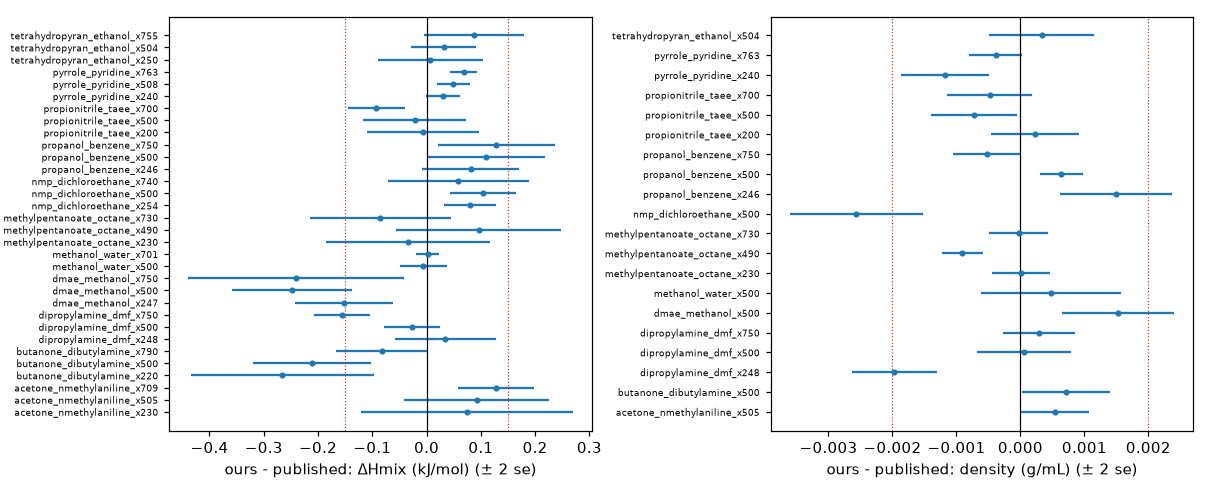
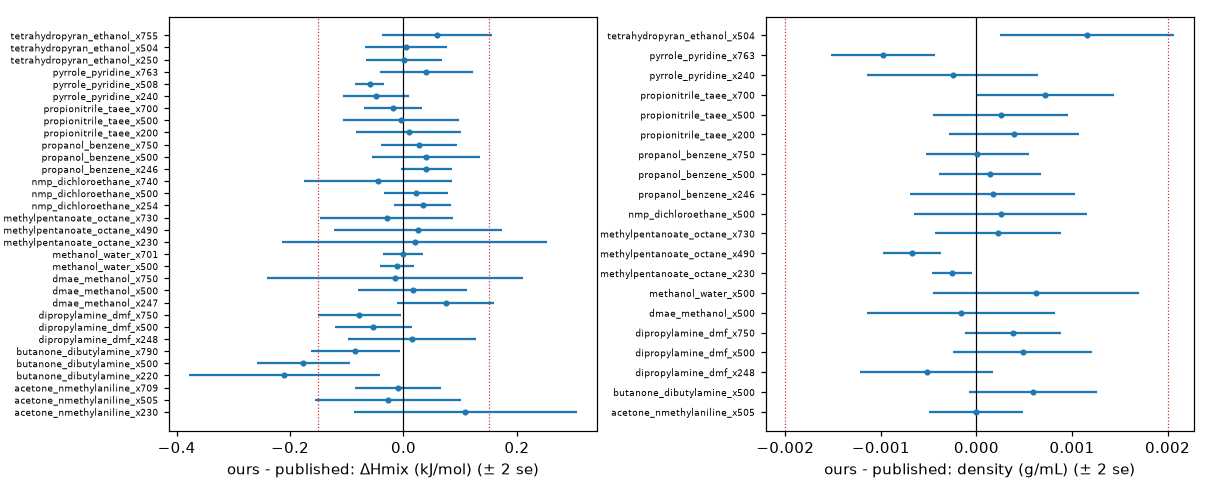
Make sure to compare to equivalent Sage ff

diff --git a/src/liquid_mixtures_inputs/summarise_sage.py b/src/liquid_mixtures_inputs/summarise_sage.py
@@ -9,7 +9,7 @@ Run in the ``analysis`` pixi environment after ``run_sage_benchmark.py``::
 It computes ΔHmix, mixture density and V^E for every replicate, the replicate
 spread used as the MAZE denominator (σ_Sage, pooled per system), convergence
 diagnostics, a comparison of within-run and between-run uncertainties, and a
-finite-size check against the published 1000-molecule openff-2.2.1 results.
+finite-size check against the published 1000-molecule openff-2.2.1-ashgc results.
 Per-run statistics use the same estimators as the benchmark analysis
 (``ml_peg/analysis/molecular_dynamics/binary_mixtures/mixing.py``).
 ``systems.csv`` and ``boxes.csv`` in ``--data-dir`` are updated in place with
@@ -46,7 +46,10 @@ EQUILIBRATION_PS = 200.0
 PRODUCTION_PS = 2000.0
 FLAG_P = 0.05
 START_T = 4.0  # |t| above which replicate 0 is reported as start-dependent
-SAGE_FF = "openff-2.2.1"
+# openff-2.2.1 parameters with NAGL (AshGC) charges, like our runs; the published
+# "openff-2.2.1" rows use AM1-BCC. 04_benchmark/forcefields/openff-2.2.1-ashgc.offxml
+# uses openff-gnn-am1bcc-0.1.0-rc.3 where we use 1.0.0.
+PUBLISHED_FF = "openff-2.2.1-ashgc"
 PUBLISHED_X_TOLERANCE = 0.02
 # Thresholds for the "systems to inspect" summary
 SIZE_GAP = {"hmix": 0.15, "density": 0.002}  # kJ/mol, g/mL
@@ -254,7 +257,7 @@ def pooled_sigma(points: pd.DataFrame, n_replicates: int) -> pd.DataFrame:
 
 def published_sage(cache_dir: Path) -> pd.DataFrame:
     """
-    Load the published openff-2.2.1 results (3 replicates, 1000 molecules).
+    Load the published openff-2.2.1-ashgc results (3 replicates, 1000 molecules).
 
     Parameters
     ----------
@@ -277,7 +280,7 @@ def published_sage(cache_dir: Path) -> pd.DataFrame:
         if path.exists():
             frames.append(pd.read_csv(path))
     data = pd.concat(frames)
-    data = data[data.forcefield == SAGE_FF].copy()
+    data = data[data.forcefield == PUBLISHED_FF].copy()
 
     def x_first(row) -> float:
         """
@@ -807,6 +810,7 @@ def plot_finite_size(finite: pd.DataFrame, path: Path) -> None:
         for sign in (-1, 1):
             ax.axvline(sign * SIZE_GAP[prop], color="tab:red", ls=":", lw=0.8)
         ax.set_yticks(np.arange(len(data)), data.box_id, fontsize=6)
+        ax.xaxis.set_major_locator(mpl.ticker.MaxNLocator(5))
         ax.set_xlabel(f"ours - published: {unit} (± 2 se)")
     fig.tight_layout()
     fig.savefig(path, dpi=110)
@@ -1018,8 +1022,16 @@ CATEGORY_NOTES = {
         "demixing flags for this box compare against this Sage value."
     ),
     "box-size gap": (
-        "Differs from the published 1000-molecule runs beyond the threshold. "
-        "Could be box size or NAGL vs AM1-BCC charges."
+        f"Our replicate mean minus the published {PUBLISHED_FF} mean (3 "
+        "replicates, 1000 molecules) at our composition, beyond "
+        f"{SIZE_GAP['hmix']} kJ/mol or {SIZE_GAP['density']} g/mL. Both use "
+        "openff-2.2.1 parameters with NAGL charges (published: model 0.1.0-rc.3, "
+        "ours: 1.0.0), so the gap comes from box size, protocol (run length, "
+        "equilibration, starting conformers) or the NAGL model version. z is "
+        "the gap over the combined "
+        "standard error of the two means: it tests whether the gap exceeds "
+        "replicate noise, not what causes it. The plot shows every matched point "
+        "(± 2 se), with the thresholds dotted."
     ),
     "force-field miss (not a run problem)": (
         "Sage is far from experiment; expected for some systems and useful "

diff --git a/data/sage_summary/sage_report.md b/data/sage_summary/sage_report.md
@@ -17,7 +17,7 @@
 
 **Multiple testing.** The pooled ratios are one test per row of the table (4 tests, uncorrected). With a Bonferroni correction over the 4, box h, box density, point hmix stay significant at p < 0.05. The per-box and per-point tests are two-sided and Holm-corrected together (206 tests, flagged at adjusted p < 0.05). The p_high < 0.05 counts above are unadjusted and should be read against the number expected by chance. Boxes listed under "within/between mismatch" below as "p < 0.05 unadjusted only" are places to look, not individually significant results; the evidence that within-run sems are too small comes from the pooled test.
 
-**43 boxes or systems to inspect** (66 items). Categories are in rough order of concern for the benchmark.
+**41 boxes or systems to inspect** (61 items). Categories are in rough order of concern for the benchmark.
 
 ### within/between mismatch (30)
 
@@ -116,19 +116,14 @@ Sage itself shows like-like clustering beyond random mixing; MLIP demixing flags
 | water_pyridine_x495 | like-neighbour fraction 0.604 vs 0.497 for random mixing | [replicates](figures/replicates/water_pyridine_x495.png), [convergence](figures/convergence/water_pyridine_x495.png) |
 | water_pyridine_x700 | like-neighbour fraction 0.682 vs 0.579 for random mixing | [replicates](figures/replicates/water_pyridine_x700.png), [convergence](figures/convergence/water_pyridine_x700.png) |
 
-### box-size gap (7)
+### box-size gap (2)
 
-Differs from the published 1000-molecule runs beyond the threshold. Could be box size or NAGL vs AM1-BCC charges.
+Our replicate mean minus the published openff-2.2.1-ashgc mean (3 replicates, 1000 molecules) at our composition, beyond 0.15 kJ/mol or 0.002 g/mL. Both use openff-2.2.1 parameters with NAGL charges (published: model 0.1.0-rc.3, ours: 1.0.0), so the gap comes from box size, protocol (run length, equilibration, starting conformers) or the NAGL model version. z is the gap over the combined standard error of the two means: it tests whether the gap exceeds replicate noise, not what causes it. The plot shows every matched point (± 2 se), with the thresholds dotted.
 
 | Box / system | Evidence | Plots |
 |---|---|---|
-| butanone_dibutylamine_x220 | hmix: ours − published -0.2656 (z = -3.2) | [system](figures/systems/butanone_dibutylamine.png) |
-| butanone_dibutylamine_x500 | hmix: ours − published -0.2106 (z = -3.9) | [system](figures/systems/butanone_dibutylamine.png) |
-| dipropylamine_dmf_x750 | hmix: ours − published -0.1559 (z = -6.0) | [system](figures/systems/dipropylamine_dmf.png) |
-| dmae_methanol_x247 | hmix: ours − published -0.1521 (z = -3.4) | [system](figures/systems/dmae_methanol.png) |
-| dmae_methanol_x500 | hmix: ours − published -0.2483 (z = -4.5) | [system](figures/systems/dmae_methanol.png) |
-| dmae_methanol_x750 | hmix: ours − published -0.2405 (z = -2.4) | [system](figures/systems/dmae_methanol.png) |
-| nmp_dichloroethane_x500 | density: ours − published -0.0026 (z = -4.9) | [system](figures/systems/nmp_dichloroethane.png) |
+| butanone_dibutylamine_x220 | hmix: ours − published -0.2103 (z = -2.5) | [system](figures/systems/butanone_dibutylamine.png) |
+| butanone_dibutylamine_x500 | hmix: ours − published -0.1767 (z = -4.3) | [system](figures/systems/butanone_dibutylamine.png) |
 
 ![finite size](figures/finite_size.png)
 
@@ -208,62 +203,62 @@ Largest within/between mismatches:
 
 ## Finite-size check (our boxes vs published 1000-molecule runs)
 
-Matched points within |Δx| ≤ 0.02: 52. The nearest published value is shifted to our composition along a curve fitted to the published points (two-term Redlich-Kister for ΔHmix, quadratic for density), as a composition offset alone can shift a density by more than the gaps tested. |z| > 3: 18. z uses the standard errors of the two replicate means, which are small, so small systematic offsets reach |z| > 3.
+Matched points within |Δx| ≤ 0.02: 52. The nearest published value is shifted to our composition along a curve fitted to the published points (two-term Redlich-Kister for ΔHmix, quadratic for density), as a composition offset alone can shift a density by more than the gaps tested. |z| > 3: 4. z uses the standard errors of the two replicate means, which are small, so small systematic offsets reach |z| > 3.
 
 | Box | Property | x ours | x published (nearest) | Ours | Published (nearest) | Published (at our x) | Diff | z |
 |---|---|---|---|---|---|---|---|---|
-| acetone_nmethylaniline_x230 | hmix | 0.2300 | 0.2316 | -0.5381 | -0.6150 | -0.6120 | +0.0739 | +0.8 |
-| acetone_nmethylaniline_x505 | hmix | 0.5050 | 0.5086 | -0.7842 | -0.8762 | -0.8763 | +0.0921 | +1.4 |
-| acetone_nmethylaniline_x505 | density | 0.5050 | 0.4948 | 0.9045 | 0.9061 | 0.9040 | +0.0005 | +2.0 |
-| acetone_nmethylaniline_x709 | hmix | 0.7091 | 0.7097 | -0.5955 | -0.7228 | -0.7237 | +0.1282 | +3.7 |
-| butanone_dibutylamine_x220 | hmix | 0.2200 | 0.2154 | -0.1008 | 0.1621 | 0.1648 | -0.2656 | -3.2 |
-| butanone_dibutylamine_x500 | hmix | 0.5000 | 0.5044 | 0.0547 | 0.2655 | 0.2654 | -0.2106 | -3.9 |
-| butanone_dibutylamine_x500 | density | 0.5000 | 0.5018 | 0.7612 | 0.7606 | 0.7605 | +0.0007 | +2.1 |
-| butanone_dibutylamine_x790 | hmix | 0.7900 | 0.7922 | 0.0943 | 0.1749 | 0.1762 | -0.0819 | -1.9 |
-| dipropylamine_dmf_x248 | hmix | 0.2476 | 0.2482 | 0.1854 | 0.1509 | 0.1506 | +0.0347 | +0.8 |
-| dipropylamine_dmf_x248 | density | 0.2476 | 0.2523 | 0.8528 | 0.8537 | 0.8548 | -0.0020 | -6.0 |
-| dipropylamine_dmf_x500 | hmix | 0.5000 | 0.4995 | 0.1227 | 0.1503 | 0.1503 | -0.0275 | -1.1 |
-| dipropylamine_dmf_x500 | density | 0.5000 | 0.5034 | 0.8037 | 0.8030 | 0.8037 | +0.0001 | +0.1 |
-| dipropylamine_dmf_x750 | hmix | 0.7500 | 0.7496 | 0.0143 | 0.1703 | 0.1702 | -0.1559 | -6.0 |
-| dipropylamine_dmf_x750 | density | 0.7500 | 0.7459 | 0.7639 | 0.7642 | 0.7636 | +0.0003 | +1.0 |
-| dmae_methanol_x247 | hmix | 0.2470 | 0.2479 | -1.3032 | -1.1534 | -1.1511 | -0.1521 | -3.4 |
-| dmae_methanol_x500 | hmix | 0.5000 | 0.4972 | -1.6240 | -1.3779 | -1.3757 | -0.2483 | -4.5 |
-| dmae_methanol_x500 | density | 0.5000 | 0.5020 | 0.8610 | 0.8596 | 0.8594 | +0.0015 | +3.5 |
-| dmae_methanol_x750 | hmix | 0.7500 | 0.7506 | -1.0942 | -0.8519 | -0.8537 | -0.2405 | -2.4 |
-| methanol_water_x500 | hmix | 0.5000 | 0.5000 | 0.1183 | 0.1242 | 0.1242 | -0.0059 | -0.3 |
-| methanol_water_x500 | density | 0.5000 | 0.4997 | 0.8388 | 0.8384 | 0.8383 | +0.0005 | +0.9 |
-| methanol_water_x701 | hmix | 0.7014 | 0.7000 | 0.0509 | 0.0492 | 0.0489 | +0.0020 | +0.2 |
-| methylpentanoate_octane_x230 | hmix | 0.2300 | 0.2255 | 1.0662 | 1.0873 | 1.1005 | -0.0343 | -0.5 |
-| methylpentanoate_octane_x230 | density | 0.2300 | 0.2465 | 0.7228 | 0.7256 | 0.7228 | +0.0000 | +0.0 |
-| methylpentanoate_octane_x490 | hmix | 0.4900 | 0.4887 | 1.4176 | 1.3225 | 1.3220 | +0.0957 | +1.3 |
-| methylpentanoate_octane_x490 | density | 0.4900 | 0.4896 | 0.7685 | 0.7693 | 0.7694 | -0.0009 | -5.7 |
-| methylpentanoate_octane_x730 | hmix | 0.7300 | 0.7323 | 0.9363 | 1.0154 | 1.0216 | -0.0853 | -1.3 |
-| methylpentanoate_octane_x730 | density | 0.7300 | 0.7399 | 0.8179 | 0.8200 | 0.8179 | -0.0000 | -0.1 |
-| nmp_dichloroethane_x254 | hmix | 0.2544 | 0.2531 | -0.4317 | -0.5099 | -0.5114 | +0.0796 | +3.3 |
-| nmp_dichloroethane_x500 | hmix | 0.5000 | 0.5000 | -0.5040 | -0.6079 | -0.6079 | +0.1039 | +3.4 |
-| nmp_dichloroethane_x500 | density | 0.5000 | 0.4975 | 1.1057 | 1.1088 | 1.1082 | -0.0026 | -4.9 |
-| nmp_dichloroethane_x740 | hmix | 0.7404 | 0.7367 | -0.3904 | -0.4535 | -0.4489 | +0.0585 | +0.9 |
-| propanol_benzene_x246 | hmix | 0.2455 | 0.2493 | 1.2830 | 1.2108 | 1.2019 | +0.0811 | +1.8 |
-| propanol_benzene_x246 | density | 0.2455 | 0.2385 | 0.8422 | 0.8411 | 0.8407 | +0.0015 | +3.4 |
-| propanol_benzene_x500 | hmix | 0.5000 | 0.4996 | 1.3732 | 1.2648 | 1.2643 | +0.1088 | +2.0 |
-| propanol_benzene_x500 | density | 0.5000 | 0.5023 | 0.8263 | 0.8255 | 0.8257 | +0.0006 | +3.8 |
-| propanol_benzene_x750 | hmix | 0.7500 | 0.7501 | 0.8935 | 0.7647 | 0.7650 | +0.1285 | +2.4 |
-| propanol_benzene_x750 | density | 0.7500 | 0.7453 | 0.8098 | 0.8106 | 0.8103 | -0.0005 | -2.0 |
-| propionitrile_taee_x200 | hmix | 0.2000 | 0.2009 | 0.1771 | 0.1845 | 0.1838 | -0.0067 | -0.1 |
-| propionitrile_taee_x200 | density | 0.2000 | 0.2009 | 0.7634 | 0.7632 | 0.7632 | +0.0002 | +0.7 |
-| propionitrile_taee_x500 | hmix | 0.5000 | 0.5025 | 0.2602 | 0.2827 | 0.2824 | -0.0222 | -0.5 |
-| propionitrile_taee_x500 | density | 0.5000 | 0.5025 | 0.7676 | 0.7684 | 0.7684 | -0.0007 | -2.2 |
-| propionitrile_taee_x700 | hmix | 0.7000 | 0.7012 | 0.1888 | 0.2811 | 0.2816 | -0.0929 | -3.6 |
-| propionitrile_taee_x700 | density | 0.7000 | 0.7012 | 0.7712 | 0.7717 | 0.7717 | -0.0005 | -1.4 |
-| pyrrole_pyridine_x240 | hmix | 0.2397 | 0.2395 | -0.1136 | -0.1439 | -0.1440 | +0.0303 | +2.0 |
-| pyrrole_pyridine_x240 | density | 0.2397 | 0.2273 | 0.9748 | 0.9760 | 0.9760 | -0.0012 | -3.5 |
-| pyrrole_pyridine_x508 | hmix | 0.5079 | 0.5095 | -0.0710 | -0.1193 | -0.1199 | +0.0489 | +3.2 |
-| pyrrole_pyridine_x763 | hmix | 0.7634 | 0.7602 | 0.0612 | -0.0080 | -0.0070 | +0.0682 | +5.6 |
-| pyrrole_pyridine_x763 | density | 0.7634 | 0.7554 | 0.9769 | 0.9772 | 0.9773 | -0.0004 | -1.9 |
-| tetrahydropyran_ethanol_x250 | hmix | 0.2500 | 0.2500 | 0.6502 | 0.6431 | 0.6431 | +0.0071 | +0.1 |
-| tetrahydropyran_ethanol_x504 | hmix | 0.5042 | 0.5000 | 0.9679 | 0.9341 | 0.9363 | +0.0316 | +1.0 |
-| tetrahydropyran_ethanol_x504 | density | 0.5042 | 0.5040 | 0.8351 | 0.8348 | 0.8348 | +0.0003 | +0.8 |
-| tetrahydropyran_ethanol_x755 | hmix | 0.7547 | 0.7500 | 0.9273 | 0.8482 | 0.8396 | +0.0877 | +1.9 |
+| acetone_nmethylaniline_x230 | hmix | 0.2300 | 0.2316 | -0.5381 | -0.6499 | -0.6473 | +0.1092 | +1.1 |
+| acetone_nmethylaniline_x505 | hmix | 0.5050 | 0.5086 | -0.7842 | -0.7554 | -0.7571 | -0.0271 | -0.4 |
+| acetone_nmethylaniline_x505 | density | 0.5050 | 0.4948 | 0.9045 | 0.9067 | 0.9045 | -0.0000 | -0.0 |
+| acetone_nmethylaniline_x709 | hmix | 0.7091 | 0.7097 | -0.5955 | -0.5850 | -0.5859 | -0.0096 | -0.3 |
+| butanone_dibutylamine_x220 | hmix | 0.2200 | 0.2154 | -0.1008 | 0.1071 | 0.1095 | -0.2103 | -2.5 |
+| butanone_dibutylamine_x500 | hmix | 0.5000 | 0.5044 | 0.0547 | 0.2323 | 0.2314 | -0.1767 | -4.3 |
+| butanone_dibutylamine_x500 | density | 0.5000 | 0.5018 | 0.7612 | 0.7607 | 0.7607 | +0.0006 | +1.8 |
+| butanone_dibutylamine_x790 | hmix | 0.7900 | 0.7922 | 0.0943 | 0.1779 | 0.1791 | -0.0847 | -2.2 |
+| dipropylamine_dmf_x248 | hmix | 0.2476 | 0.2482 | 0.1854 | 0.1702 | 0.1701 | +0.0153 | +0.3 |
+| dipropylamine_dmf_x248 | density | 0.2476 | 0.2523 | 0.8528 | 0.8523 | 0.8533 | -0.0005 | -1.5 |
+| dipropylamine_dmf_x500 | hmix | 0.5000 | 0.4995 | 0.1227 | 0.1762 | 0.1761 | -0.0534 | -1.6 |
+| dipropylamine_dmf_x500 | density | 0.5000 | 0.5034 | 0.8037 | 0.8026 | 0.8032 | +0.0005 | +1.3 |
+| dipropylamine_dmf_x750 | hmix | 0.7500 | 0.7496 | 0.0143 | 0.0921 | 0.0920 | -0.0777 | -2.1 |
+| dipropylamine_dmf_x750 | density | 0.7500 | 0.7459 | 0.7639 | 0.7641 | 0.7635 | +0.0004 | +1.5 |
+| dmae_methanol_x247 | hmix | 0.2470 | 0.2479 | -1.3032 | -1.3806 | -1.3778 | +0.0746 | +1.7 |
+| dmae_methanol_x500 | hmix | 0.5000 | 0.4972 | -1.6240 | -1.6424 | -1.6401 | +0.0161 | +0.3 |
+| dmae_methanol_x500 | density | 0.5000 | 0.5020 | 0.8610 | 0.8613 | 0.8611 | -0.0002 | -0.3 |
+| dmae_methanol_x750 | hmix | 0.7500 | 0.7506 | -1.0942 | -1.0778 | -1.0799 | -0.0143 | -0.1 |
+| methanol_water_x500 | hmix | 0.5000 | 0.5000 | 0.1183 | 0.1297 | 0.1297 | -0.0114 | -0.8 |
+| methanol_water_x500 | density | 0.5000 | 0.4997 | 0.8388 | 0.8382 | 0.8382 | +0.0006 | +1.2 |
+| methanol_water_x701 | hmix | 0.7014 | 0.7000 | 0.0509 | 0.0527 | 0.0523 | -0.0014 | -0.1 |
+| methylpentanoate_octane_x230 | hmix | 0.2300 | 0.2255 | 1.0662 | 1.0335 | 1.0466 | +0.0196 | +0.2 |
+| methylpentanoate_octane_x230 | density | 0.2300 | 0.2465 | 0.7228 | 0.7258 | 0.7231 | -0.0003 | -2.4 |
+| methylpentanoate_octane_x490 | hmix | 0.4900 | 0.4887 | 1.4176 | 1.3921 | 1.3916 | +0.0260 | +0.4 |
+| methylpentanoate_octane_x490 | density | 0.4900 | 0.4896 | 0.7685 | 0.7691 | 0.7692 | -0.0007 | -4.4 |
+| methylpentanoate_octane_x730 | hmix | 0.7300 | 0.7323 | 0.9363 | 0.9599 | 0.9661 | -0.0298 | -0.5 |
+| methylpentanoate_octane_x730 | density | 0.7300 | 0.7399 | 0.8179 | 0.8198 | 0.8176 | +0.0002 | +0.7 |
+| nmp_dichloroethane_x254 | hmix | 0.2544 | 0.2531 | -0.4317 | -0.4647 | -0.4659 | +0.0342 | +1.4 |
+| nmp_dichloroethane_x500 | hmix | 0.5000 | 0.5000 | -0.5040 | -0.5261 | -0.5261 | +0.0220 | +0.8 |
+| nmp_dichloroethane_x500 | density | 0.5000 | 0.4975 | 1.1057 | 1.1060 | 1.1054 | +0.0003 | +0.6 |
+| nmp_dichloroethane_x740 | hmix | 0.7404 | 0.7367 | -0.3904 | -0.3489 | -0.3448 | -0.0456 | -0.7 |
+| propanol_benzene_x246 | hmix | 0.2455 | 0.2493 | 1.2830 | 1.2527 | 1.2431 | +0.0399 | +1.8 |
+| propanol_benzene_x246 | density | 0.2455 | 0.2385 | 0.8422 | 0.8425 | 0.8421 | +0.0002 | +0.4 |
+| propanol_benzene_x500 | hmix | 0.5000 | 0.4996 | 1.3732 | 1.3342 | 1.3338 | +0.0394 | +0.8 |
+| propanol_benzene_x500 | density | 0.5000 | 0.5023 | 0.8263 | 0.8260 | 0.8261 | +0.0001 | +0.5 |
+| propanol_benzene_x750 | hmix | 0.7500 | 0.7501 | 0.8935 | 0.8653 | 0.8656 | +0.0279 | +0.8 |
+| propanol_benzene_x750 | density | 0.7500 | 0.7453 | 0.8098 | 0.8101 | 0.8098 | +0.0000 | +0.0 |
+| propionitrile_taee_x200 | hmix | 0.2000 | 0.2009 | 0.1771 | 0.1685 | 0.1679 | +0.0092 | +0.2 |
+| propionitrile_taee_x200 | density | 0.2000 | 0.2009 | 0.7634 | 0.7631 | 0.7630 | +0.0004 | +1.1 |
+| propionitrile_taee_x500 | hmix | 0.5000 | 0.5025 | 0.2602 | 0.2641 | 0.2642 | -0.0040 | -0.1 |
+| propionitrile_taee_x500 | density | 0.5000 | 0.5025 | 0.7676 | 0.7674 | 0.7674 | +0.0003 | +0.7 |
+| propionitrile_taee_x700 | hmix | 0.7000 | 0.7012 | 0.1888 | 0.2065 | 0.2071 | -0.0183 | -0.7 |
+| propionitrile_taee_x700 | density | 0.7000 | 0.7012 | 0.7712 | 0.7705 | 0.7705 | +0.0007 | +2.0 |
+| pyrrole_pyridine_x240 | hmix | 0.2397 | 0.2395 | -0.1136 | -0.0647 | -0.0647 | -0.0489 | -1.7 |
+| pyrrole_pyridine_x240 | density | 0.2397 | 0.2273 | 0.9748 | 0.9750 | 0.9751 | -0.0002 | -0.6 |
+| pyrrole_pyridine_x508 | hmix | 0.5079 | 0.5095 | -0.0710 | -0.0110 | -0.0114 | -0.0596 | -4.7 |
+| pyrrole_pyridine_x763 | hmix | 0.7634 | 0.7602 | 0.0612 | 0.0205 | 0.0207 | +0.0405 | +1.0 |
+| pyrrole_pyridine_x763 | density | 0.7634 | 0.7554 | 0.9769 | 0.9778 | 0.9779 | -0.0010 | -3.6 |
+| tetrahydropyran_ethanol_x250 | hmix | 0.2500 | 0.2500 | 0.6502 | 0.6490 | 0.6490 | +0.0012 | +0.0 |
+| tetrahydropyran_ethanol_x504 | hmix | 0.5042 | 0.5000 | 0.9679 | 0.9609 | 0.9634 | +0.0045 | +0.1 |
+| tetrahydropyran_ethanol_x504 | density | 0.5042 | 0.5040 | 0.8351 | 0.8339 | 0.8339 | +0.0012 | +2.6 |
+| tetrahydropyran_ethanol_x755 | hmix | 0.7547 | 0.7500 | 0.9273 | 0.8775 | 0.8688 | +0.0585 | +1.2 |
 
 ## Convergence
 
